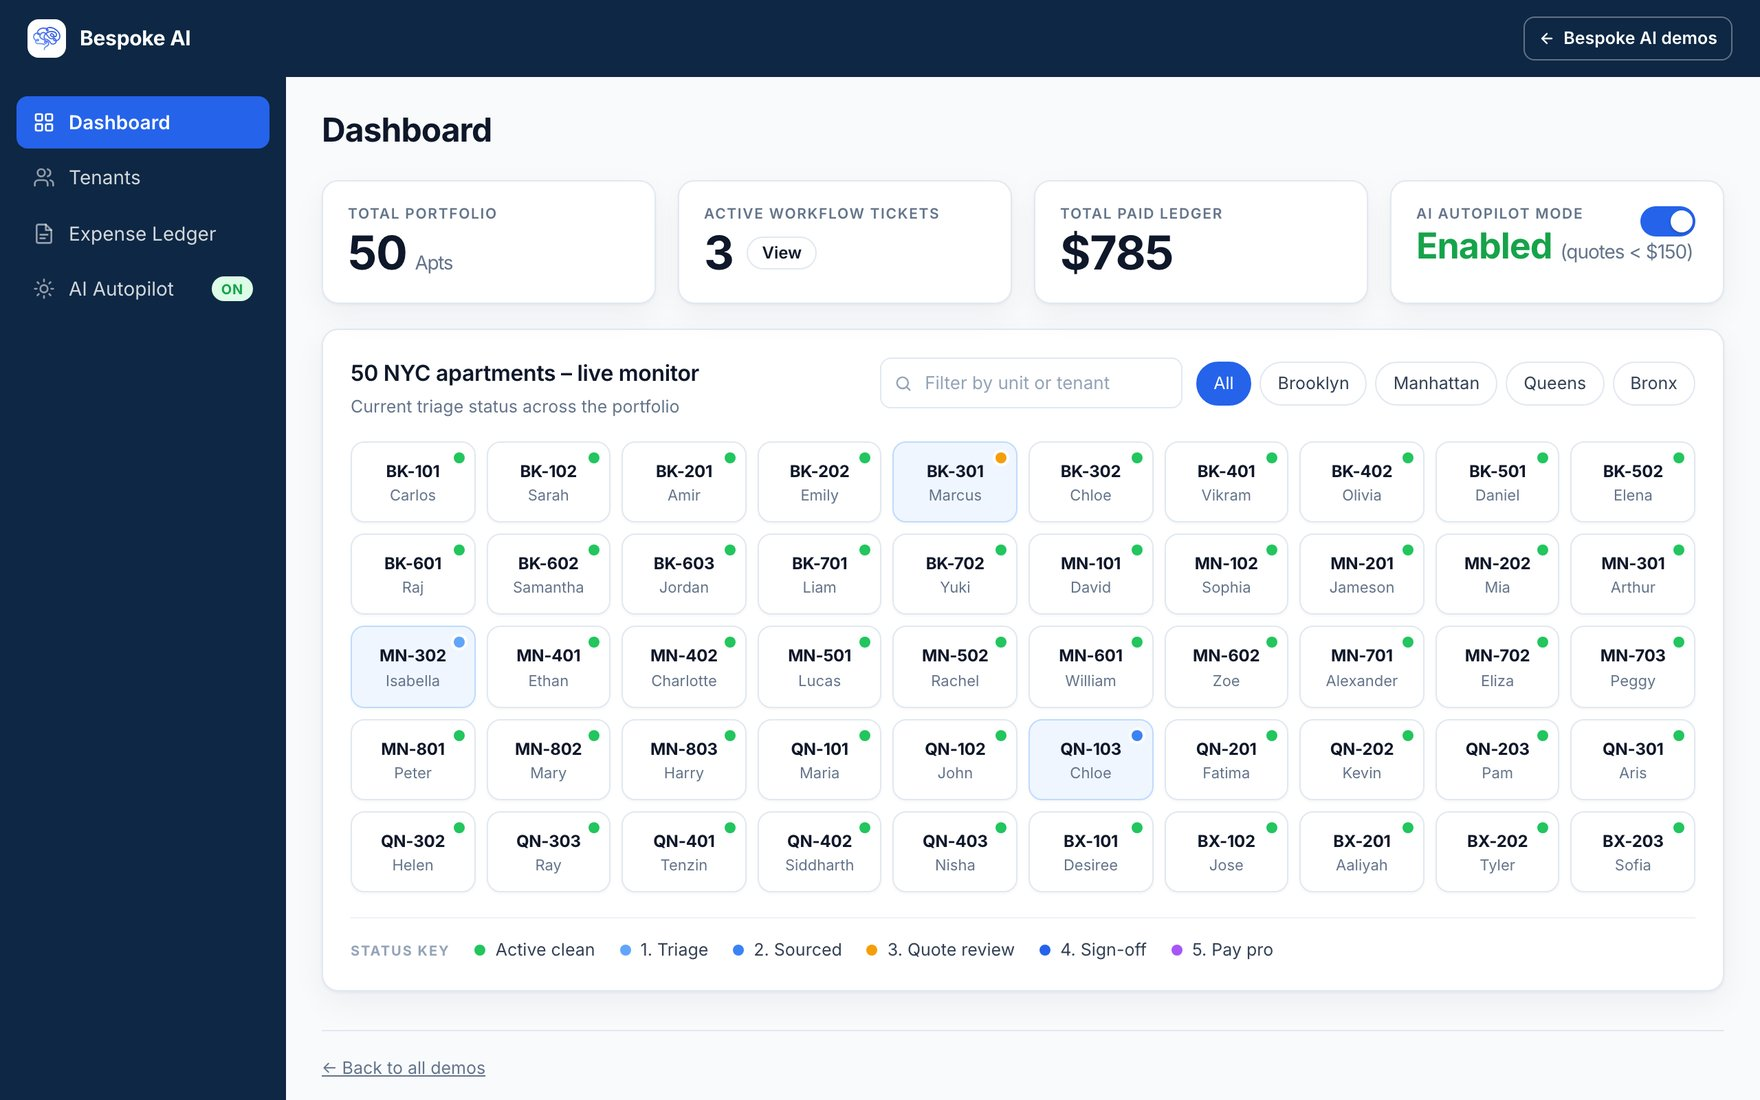
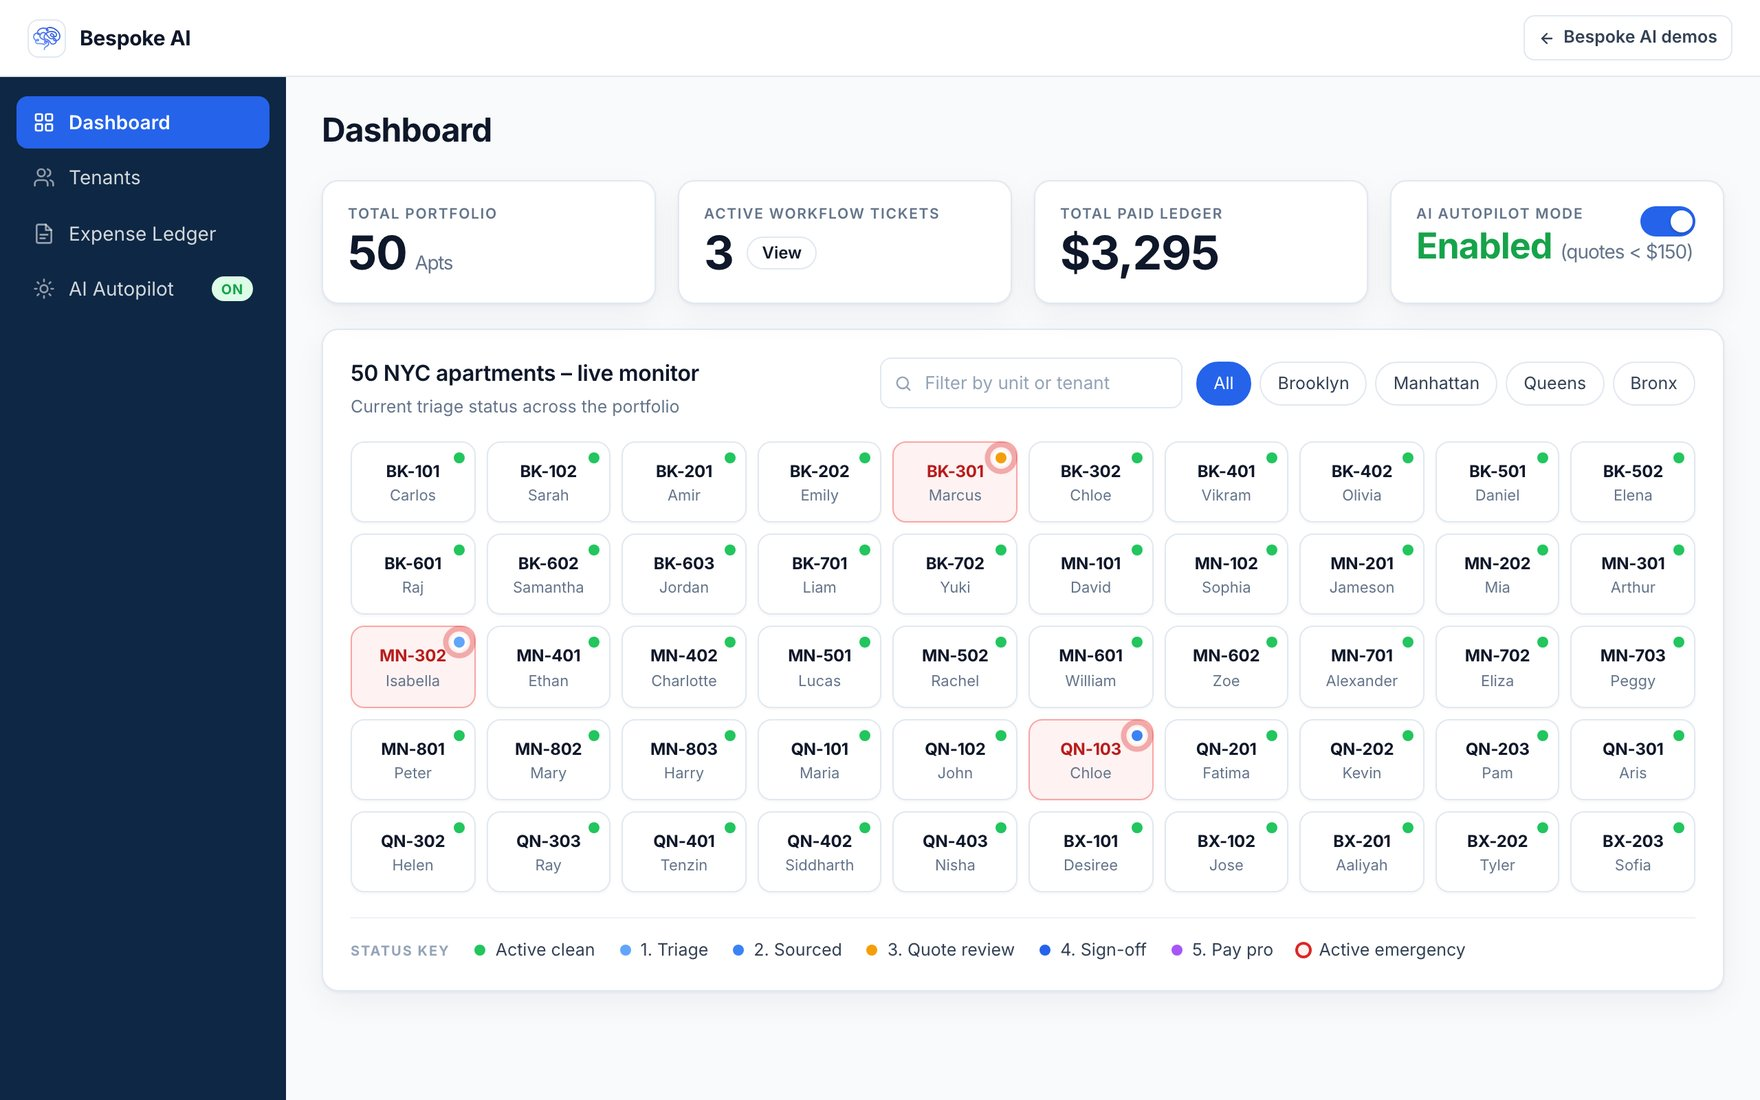
batch 7

diff --git a/demos/real-estate/styles.css b/demos/real-estate/styles.css
@@ -184,7 +184,7 @@ button { font: inherit; color: inherit; }
   display: grid;
   grid-template-columns: repeat(4, minmax(0, 1fr));
   gap: 16px;
-  max-width: 1080px;
+  max-width: 960px;
   margin-bottom: 18px;
 }
 
@@ -375,9 +375,23 @@ button { font: inherit; color: inherit; }
   outline: none;
 }
 .unit.is-active { background: var(--blue-wash); border-color: var(--blue-edge); }
-.unit.is-emergency { background: #fef2f2; border-color: #fca5a5; }
+.unit.is-emergency {
+  background: #fef2f2;
+  border-color: #dc2626;
+  box-shadow: 0 0 0 1px #dc2626;
+}
 .unit.is-emergency .unit__id { color: #b91c1c; }
 .unit.is-emergency:hover, .unit.is-emergency:focus-visible { border-color: #dc2626; box-shadow: 0 0 0 1px #dc2626, 0 10px 22px rgba(220, 38, 38, .22); }
+.unit__flag {
+  display: block;
+  margin-top: 4px;
+  color: #b91c1c;
+  font-size: 8.5px;
+  font-weight: 700;
+  letter-spacing: .06em;
+  line-height: 1;
+  text-transform: uppercase;
+}
 .unit.is-emergency .unit__dot::after {
   content: "";
   position: absolute;
@@ -430,7 +444,7 @@ button { font: inherit; color: inherit; }
 .unit-pop {
   position: fixed;
   z-index: 50;
-  width: 290px;
+  width: 340px;
   padding: 14px 16px 12px;
   border: 1px solid var(--line);
   border-radius: 12px;
@@ -447,9 +461,9 @@ button { font: inherit; color: inherit; }
 .unit-pop__unit { font-size: 12px; font-weight: 700; color: var(--muted); letter-spacing: .02em; }
 .unit-pop__name { margin: 4px 0 10px; font-size: 15px; font-weight: 700; letter-spacing: -.01em; }
 .unit-pop__rows { display: grid; gap: 5px; margin: 0; }
-.unit-pop__row { display: grid; grid-template-columns: 76px minmax(0, 1fr); gap: 8px; font-size: 12.5px; }
+.unit-pop__row { display: grid; grid-template-columns: 72px minmax(0, 1fr); gap: 8px; font-size: 12.5px; }
 .unit-pop__row dt { color: var(--muted); }
-.unit-pop__row dd { margin: 0; overflow-wrap: anywhere; }
+.unit-pop__row dd { margin: 0; overflow-wrap: break-word; }
 .unit-pop__alert { margin-top: 10px; padding: 8px 10px; border-radius: 8px; background: #f1f5f9; color: var(--ink-soft); font-size: 12px; line-height: 1.45; }
 .unit-pop__alert b { display: block; margin-bottom: 2px; color: var(--ink); font-size: 11px; letter-spacing: .03em; }
 .unit-pop__alert--urgent { background: #fef2f2; }
@@ -563,14 +577,20 @@ button { font: inherit; color: inherit; }
 .tcard__phone { display: inline-flex; align-items: center; gap: 6px; white-space: nowrap; }
 
 .tpanel { padding: 6px 0 4px; }
-.table--roster { table-layout: fixed; min-width: 1070px; }
+.table--roster { table-layout: fixed; width: 100%; min-width: 1070px; }
 .table--roster .c-unit   { width: 92px; }
 .table--roster .c-name   { width: 200px; }
-.table--roster .c-addr   { width: 360px; }
 .table--roster .c-phone  { width: 150px; }
-.table--roster .c-boro   { width: 112px; }
-.table--roster .c-status { width: 150px; }
+.table--roster .c-addr   { width: 376px; }
+.table--roster .c-boro   { width: 104px; }
+.table--roster .c-status { width: 148px; }
 .table--roster .c-spacer { width: auto; }
+.table--roster th:nth-child(5),
+.table--roster td:nth-child(5),
+.table--roster th:nth-child(6),
+.table--roster td:nth-child(6) { white-space: nowrap; }
+.table--roster th,
+.table--roster td { padding-left: 12px; padding-right: 12px; }
 .table--roster th { padding-top: 14px; }
 .table .strong { font-weight: 500; }
 .table .nowrap { white-space: nowrap; }
@@ -610,7 +630,7 @@ button { font: inherit; color: inherit; }
 .lsum--pastdue .lsum__value { color: #b91c1c; }
 .lsum__note { color: var(--muted); font-size: 12px; }
 
-.lpanel { padding: 4px 0 0; max-width: 1180px; overflow: hidden; }
+.lpanel { padding: 4px 0 0; max-width: 1000px; overflow: hidden; }
 .table--ledger { table-layout: fixed; min-width: 900px; }
 .table--ledger th { padding: 14px 12px 10px; }
 .table--ledger td { padding: 10px 12px; }
@@ -723,7 +743,7 @@ a.tcard:focus-visible, .tlink:focus-visible, .backlink:focus-visible { outline: 
   gap: 16px;
   align-items: start;
 }
-.profile__col { display: grid; gap: 16px; min-width: 0; }
+.profile__col { display: grid; grid-template-columns: minmax(0, 1fr); gap: 16px; min-width: 0; }
 .profile__col .panel__title { margin-bottom: 12px; }
 .profile__clear { margin: 0; color: var(--muted); font-size: 13px; }
 

diff --git a/demos/real-estate/app.js b/demos/real-estate/app.js
@@ -112,17 +112,19 @@
     grid.innerHTML = rows.map(function (t) {
       var st = D.status[t.status] || D.status.clean;
       var cls = emergencyFor(t.unit) ? " is-emergency" : t.status !== "clean" ? " is-active" : "";
+      var emergency = cls === " is-emergency";
       return '<a class="unit' + cls + '" href="#tenant/' + esc(t.unit) + '" data-unit="' + esc(t.unit) + '"' +
                ' style="--st:' + st.dot + '" aria-describedby="unitPop"' +
-               ' aria-label="' + esc(t.unit + ", " + t.name + ", " + st.label + (cls === " is-emergency" ? ", active emergency" : "")) + '">' +
+               ' aria-label="' + esc(t.unit + ", " + t.name + ", " + st.label + (emergency ? ", active emergency" : "")) + '">' +
                '<span class="unit__dot" style="background:' + st.dot + '"></span>' +
                '<span class="unit__id">' + esc(t.unit) + "</span>" +
                '<span class="unit__name">' + esc(t.first) + "</span>" +
+               (emergency ? '<span class="unit__flag">Emergency</span>' : "") +
              "</a>";
     }).join("");
   }
 
-  /* One shared popover follows the cursor over a tile (or sits under it on
+  /* One shared popover sits beside the hovered tile (or under it on
      keyboard focus) with the tenant's details. Touch skips it: a tap opens
      the profile straight away. */
 
@@ -182,14 +184,21 @@
     popUnit = null;
   }
 
-  // place the box near (x, y), flipping to stay inside the viewport
-  function placePop(x, y, below) {
-    var gap = 14;
+  // Keep the card next to the tile so the hover lift stays visible.
+  function placePop(tile, anchorY) {
+    var rect = tile.getBoundingClientRect();
+    var gap = 12;
     var w = pop.offsetWidth, h = pop.offsetHeight;
     var vw = document.documentElement.clientWidth, vh = window.innerHeight;
-    var left = x + gap, top = below ? y : y + gap;
-    if (left + w > vw - 8) { left = Math.max(8, x - gap - w); }
-    if (top + h > vh - 8) { top = Math.max(8, (below ? below : y) - gap - h); }
+    var left = rect.right + gap;
+    var top = anchorY - 16;
+    if (left + w > vw - 8) { left = rect.left - gap - w; }
+    if (left < 8) {
+      left = Math.max(8, Math.min(rect.left, vw - w - 8));
+      top = rect.bottom + gap;
+      if (top + h > vh - 8) { top = rect.top - gap - h; }
+    }
+    top = Math.max(8, Math.min(top, vh - h - 8));
     pop.style.left = left + "px";
     pop.style.top = top + "px";
   }
@@ -202,7 +211,7 @@
       var tile = e.target.closest(".unit");
       if (!tile) { hidePop(); return; }
       showPop(tile);
-      placePop(e.clientX, e.clientY);
+      placePop(tile, e.clientY);
     });
     grid.addEventListener("mouseleave", hidePop);
   }
@@ -211,8 +220,7 @@
     var tile = e.target.closest(".unit");
     if (!tile || !tile.matches(":focus-visible")) { return; }
     showPop(tile);
-    var rect = tile.getBoundingClientRect();
-    placePop(rect.left - 14, rect.bottom + 8, rect.top);
+    placePop(tile, tile.getBoundingClientRect().top + 16);
   });
   grid.addEventListener("focusout", hidePop);
   window.addEventListener("scroll", hidePop, { passive: true });
@@ -579,14 +587,14 @@
     }
 
     var historyHtml = history.length
-      ? '<table class="table table--mini"><tbody>' + history.map(function (r) {
+      ? '<div class="tablewrap"><table class="table table--mini"><tbody>' + history.map(function (r) {
           var due = dueNote(r);
           return '<tr class="lrow lrow--' + LEDGER_STATUS[r.status].badge + '"><td class="nowrap"><div class="rowstack ldue"><span>' + due.main + "</span>" +
                    (due.sub ? "<small>" + due.sub + "</small>" : "") + "</div></td>" +
                  '<td><div class="rowstack"><span>' + esc(r.vendor) + "</span><small>" + esc(r.description) + "</small></div></td>" +
                  '<td class="num">' + money(r.amount) + "</td>" +
                  "<td>" + statusBadge(r) + "</td></tr>";
-        }).join("") + "</tbody></table>"
+        }).join("") + "</tbody></table></div>"
       : '<p class="profile__clear">No expenses logged for this unit.</p>';
 
     var chips = suggestions(t).map(function (sug) {

diff --git a/assets/css/insights.css b/assets/css/insights.css
@@ -516,7 +516,7 @@ ul.ins-cards {
   gap: 0.9rem;
   height: 100%;
   padding: clamp(1.4rem, 2.4vw, 1.9rem);
-  padding-top: 9.5rem;
+  padding-top: 10.25rem;
   border: 1px solid var(--ins-rule);
   border-radius: 16px;
   background: var(--ins-card);
@@ -527,18 +527,18 @@ ul.ins-cards {
   transform: translateY(-3px);
   box-shadow: 0 22px 44px -30px rgba(23, 23, 27, 0.45);
 }
-/* the article's artwork as a band across the top, faded out before the text
-   starts so copy always sits on plain card paper */
+/* the article's artwork comes down over the number and topic chips, then
+   fades out so the title and blurb sit on plain card paper */
 .ins-card__img {
   position: absolute;
   inset: 0 0 auto 0;
   z-index: -1;
   width: 100%;
-  height: 11rem;
+  height: 16.5rem;
   object-fit: cover;
   object-position: 70% 40%;
-  -webkit-mask-image: linear-gradient(to bottom, #000 35%, transparent 100%);
-          mask-image: linear-gradient(to bottom, #000 35%, transparent 100%);
+  -webkit-mask-image: linear-gradient(to bottom, #000 0%, #000 36%, rgba(0, 0, 0, 0.45) 58%, transparent 78%);
+          mask-image: linear-gradient(to bottom, #000 0%, #000 36%, rgba(0, 0, 0, 0.45) 58%, transparent 78%);
   transition: transform var(--slow, 0.6s) var(--ease-out);
 }
 .ins-card__link:hover .ins-card__img { transform: scale(1.04); }
@@ -577,16 +577,16 @@ ul.ins-cards {
     align-content: center;
     column-gap: clamp(2rem, 4vw, 3.5rem);
     padding: clamp(2rem, 3.6vw, 3rem);
-    padding-right: 34%;
+    padding-right: 36%;
   }
-  /* on the lead, the artwork sits on the right and fades out to the left */
+  /* on the lead, the artwork fills the right side and fades before the blurb */
   .ins-card.is-lead .ins-card__img {
     inset: 0 0 0 auto;
-    width: 42%;
+    width: 50%;
     height: 100%;
-    object-position: 75% 50%;
-    -webkit-mask-image: linear-gradient(to right, transparent 0%, #000 45%);
-            mask-image: linear-gradient(to right, transparent 0%, #000 45%);
+    object-position: 72% 50%;
+    -webkit-mask-image: linear-gradient(to right, transparent 0%, rgba(0, 0, 0, 0.18) 16%, #000 52%);
+            mask-image: linear-gradient(to right, transparent 0%, rgba(0, 0, 0, 0.18) 16%, #000 52%);
   }
   .ins-card.is-lead .ins-card__n,
   .ins-card.is-lead .ins-card__chips,

diff --git a/demos/real-estate/index.html b/demos/real-estate/index.html
@@ -12,7 +12,7 @@
 <link rel="preconnect" href="https://fonts.googleapis.com">
 <link rel="preconnect" href="https://fonts.gstatic.com" crossorigin>
 <link href="https://fonts.googleapis.com/css2?family=Inter:ital,wght@0,400..700;1,400..700&display=swap" rel="stylesheet">
-<link rel="stylesheet" href="styles.css?v=8">
+<link rel="stylesheet" href="styles.css?v=12">
 <script>document.documentElement.classList.add("js");</script>
 <script type="text/javascript">
     (function(c,l,a,r,i,t,y){
@@ -256,7 +256,7 @@
 </div>
 
 <script src="data.js?v=3" defer></script>
-<script src="app.js?v=7" defer></script>
+<script src="app.js?v=9" defer></script>
 <script src="/assets/js/demo-back.js" defer></script>
 </body>
 </html>

diff --git a/insights/index.html b/insights/index.html
@@ -114,7 +114,7 @@
 <link rel="preconnect" href="https://fonts.gstatic.com" crossorigin>
 <link href="https://fonts.googleapis.com/css2?family=Newsreader:ital,opsz,wght@0,6..72,300..700;1,6..72,300..700&family=Inter:ital,wght@0,400..700;1,400..700&family=IBM+Plex+Mono:wght@400;500&display=swap" rel="stylesheet">
 <link rel="stylesheet" href="/assets/css/styles.css?v=c61abaf4">
-<link rel="stylesheet" href="/assets/css/insights.css?v=1281066f">
+<link rel="stylesheet" href="/assets/css/insights.css?v=356cb2b1">
 <script>document.documentElement.classList.add("js");</script>
 <script type="text/javascript">
     (function(c,l,a,r,i,t,y){

diff --git a/insights/best-practices-for-using-ai-in-law-firms/index.html b/insights/best-practices-for-using-ai-in-law-firms/index.html
@@ -94,7 +94,7 @@
 <link rel="preconnect" href="https://fonts.gstatic.com" crossorigin>
 <link href="https://fonts.googleapis.com/css2?family=Newsreader:ital,opsz,wght@0,6..72,300..700;1,6..72,300..700&family=Inter:ital,wght@0,400..700;1,400..700&family=IBM+Plex+Mono:wght@400;500&display=swap" rel="stylesheet">
 <link rel="stylesheet" href="/assets/css/styles.css?v=c61abaf4">
-<link rel="stylesheet" href="/assets/css/insights.css?v=1281066f">
+<link rel="stylesheet" href="/assets/css/insights.css?v=356cb2b1">
 <script>document.documentElement.classList.add("js");</script>
 <script type="text/javascript">
     (function(c,l,a,r,i,t,y){

diff --git a/insights/how-artificial-intelligence-is-used-in-finance/index.html b/insights/how-artificial-intelligence-is-used-in-finance/index.html
@@ -94,7 +94,7 @@
 <link rel="preconnect" href="https://fonts.gstatic.com" crossorigin>
 <link href="https://fonts.googleapis.com/css2?family=Newsreader:ital,opsz,wght@0,6..72,300..700;1,6..72,300..700&family=Inter:ital,wght@0,400..700;1,400..700&family=IBM+Plex+Mono:wght@400;500&display=swap" rel="stylesheet">
 <link rel="stylesheet" href="/assets/css/styles.css?v=c61abaf4">
-<link rel="stylesheet" href="/assets/css/insights.css?v=1281066f">
+<link rel="stylesheet" href="/assets/css/insights.css?v=356cb2b1">
 <script>document.documentElement.classList.add("js");</script>
 <script type="text/javascript">
     (function(c,l,a,r,i,t,y){

diff --git a/insights/how-educational-institutions-can-use-ai/index.html b/insights/how-educational-institutions-can-use-ai/index.html
@@ -94,7 +94,7 @@
 <link rel="preconnect" href="https://fonts.gstatic.com" crossorigin>
 <link href="https://fonts.googleapis.com/css2?family=Newsreader:ital,opsz,wght@0,6..72,300..700;1,6..72,300..700&family=Inter:ital,wght@0,400..700;1,400..700&family=IBM+Plex+Mono:wght@400;500&display=swap" rel="stylesheet">
 <link rel="stylesheet" href="/assets/css/styles.css?v=c61abaf4">
-<link rel="stylesheet" href="/assets/css/insights.css?v=1281066f">
+<link rel="stylesheet" href="/assets/css/insights.css?v=356cb2b1">
 <script>document.documentElement.classList.add("js");</script>
 <script type="text/javascript">
     (function(c,l,a,r,i,t,y){

diff --git a/insights/how-nonprofits-can-use-ai-for-social-good/index.html b/insights/how-nonprofits-can-use-ai-for-social-good/index.html
@@ -94,7 +94,7 @@
 <link rel="preconnect" href="https://fonts.gstatic.com" crossorigin>
 <link href="https://fonts.googleapis.com/css2?family=Newsreader:ital,opsz,wght@0,6..72,300..700;1,6..72,300..700&family=Inter:ital,wght@0,400..700;1,400..700&family=IBM+Plex+Mono:wght@400;500&display=swap" rel="stylesheet">
 <link rel="stylesheet" href="/assets/css/styles.css?v=c61abaf4">
-<link rel="stylesheet" href="/assets/css/insights.css?v=1281066f">
+<link rel="stylesheet" href="/assets/css/insights.css?v=356cb2b1">
 <script>document.documentElement.classList.add("js");</script>
 <script type="text/javascript">
     (function(c,l,a,r,i,t,y){

diff --git a/insights/how-to-detect-ai-generated-content/index.html b/insights/how-to-detect-ai-generated-content/index.html
@@ -96,7 +96,7 @@
 <link rel="preconnect" href="https://fonts.gstatic.com" crossorigin>
 <link href="https://fonts.googleapis.com/css2?family=Newsreader:ital,opsz,wght@0,6..72,300..700;1,6..72,300..700&family=Inter:ital,wght@0,400..700;1,400..700&family=IBM+Plex+Mono:wght@400;500&display=swap" rel="stylesheet">
 <link rel="stylesheet" href="/assets/css/styles.css?v=c61abaf4">
-<link rel="stylesheet" href="/assets/css/insights.css?v=1281066f">
+<link rel="stylesheet" href="/assets/css/insights.css?v=356cb2b1">
 <script>document.documentElement.classList.add("js");</script>
 <script type="text/javascript">
     (function(c,l,a,r,i,t,y){

diff --git a/insights/types-of-risk-in-corporate-governance/index.html b/insights/types-of-risk-in-corporate-governance/index.html
@@ -93,7 +93,7 @@
 <link rel="preconnect" href="https://fonts.gstatic.com" crossorigin>
 <link href="https://fonts.googleapis.com/css2?family=Newsreader:ital,opsz,wght@0,6..72,300..700;1,6..72,300..700&family=Inter:ital,wght@0,400..700;1,400..700&family=IBM+Plex+Mono:wght@400;500&display=swap" rel="stylesheet">
 <link rel="stylesheet" href="/assets/css/styles.css?v=c61abaf4">
-<link rel="stylesheet" href="/assets/css/insights.css?v=1281066f">
+<link rel="stylesheet" href="/assets/css/insights.css?v=356cb2b1">
 <script>document.documentElement.classList.add("js");</script>
 <script type="text/javascript">
     (function(c,l,a,r,i,t,y){

diff --git a/insights/understanding-the-forex-market/index.html b/insights/understanding-the-forex-market/index.html
@@ -93,7 +93,7 @@
 <link rel="preconnect" href="https://fonts.gstatic.com" crossorigin>
 <link href="https://fonts.googleapis.com/css2?family=Newsreader:ital,opsz,wght@0,6..72,300..700;1,6..72,300..700&family=Inter:ital,wght@0,400..700;1,400..700&family=IBM+Plex+Mono:wght@400;500&display=swap" rel="stylesheet">
 <link rel="stylesheet" href="/assets/css/styles.css?v=c61abaf4">
-<link rel="stylesheet" href="/assets/css/insights.css?v=1281066f">
+<link rel="stylesheet" href="/assets/css/insights.css?v=356cb2b1">
 <script>document.documentElement.classList.add("js");</script>
 <script type="text/javascript">
     (function(c,l,a,r,i,t,y){
